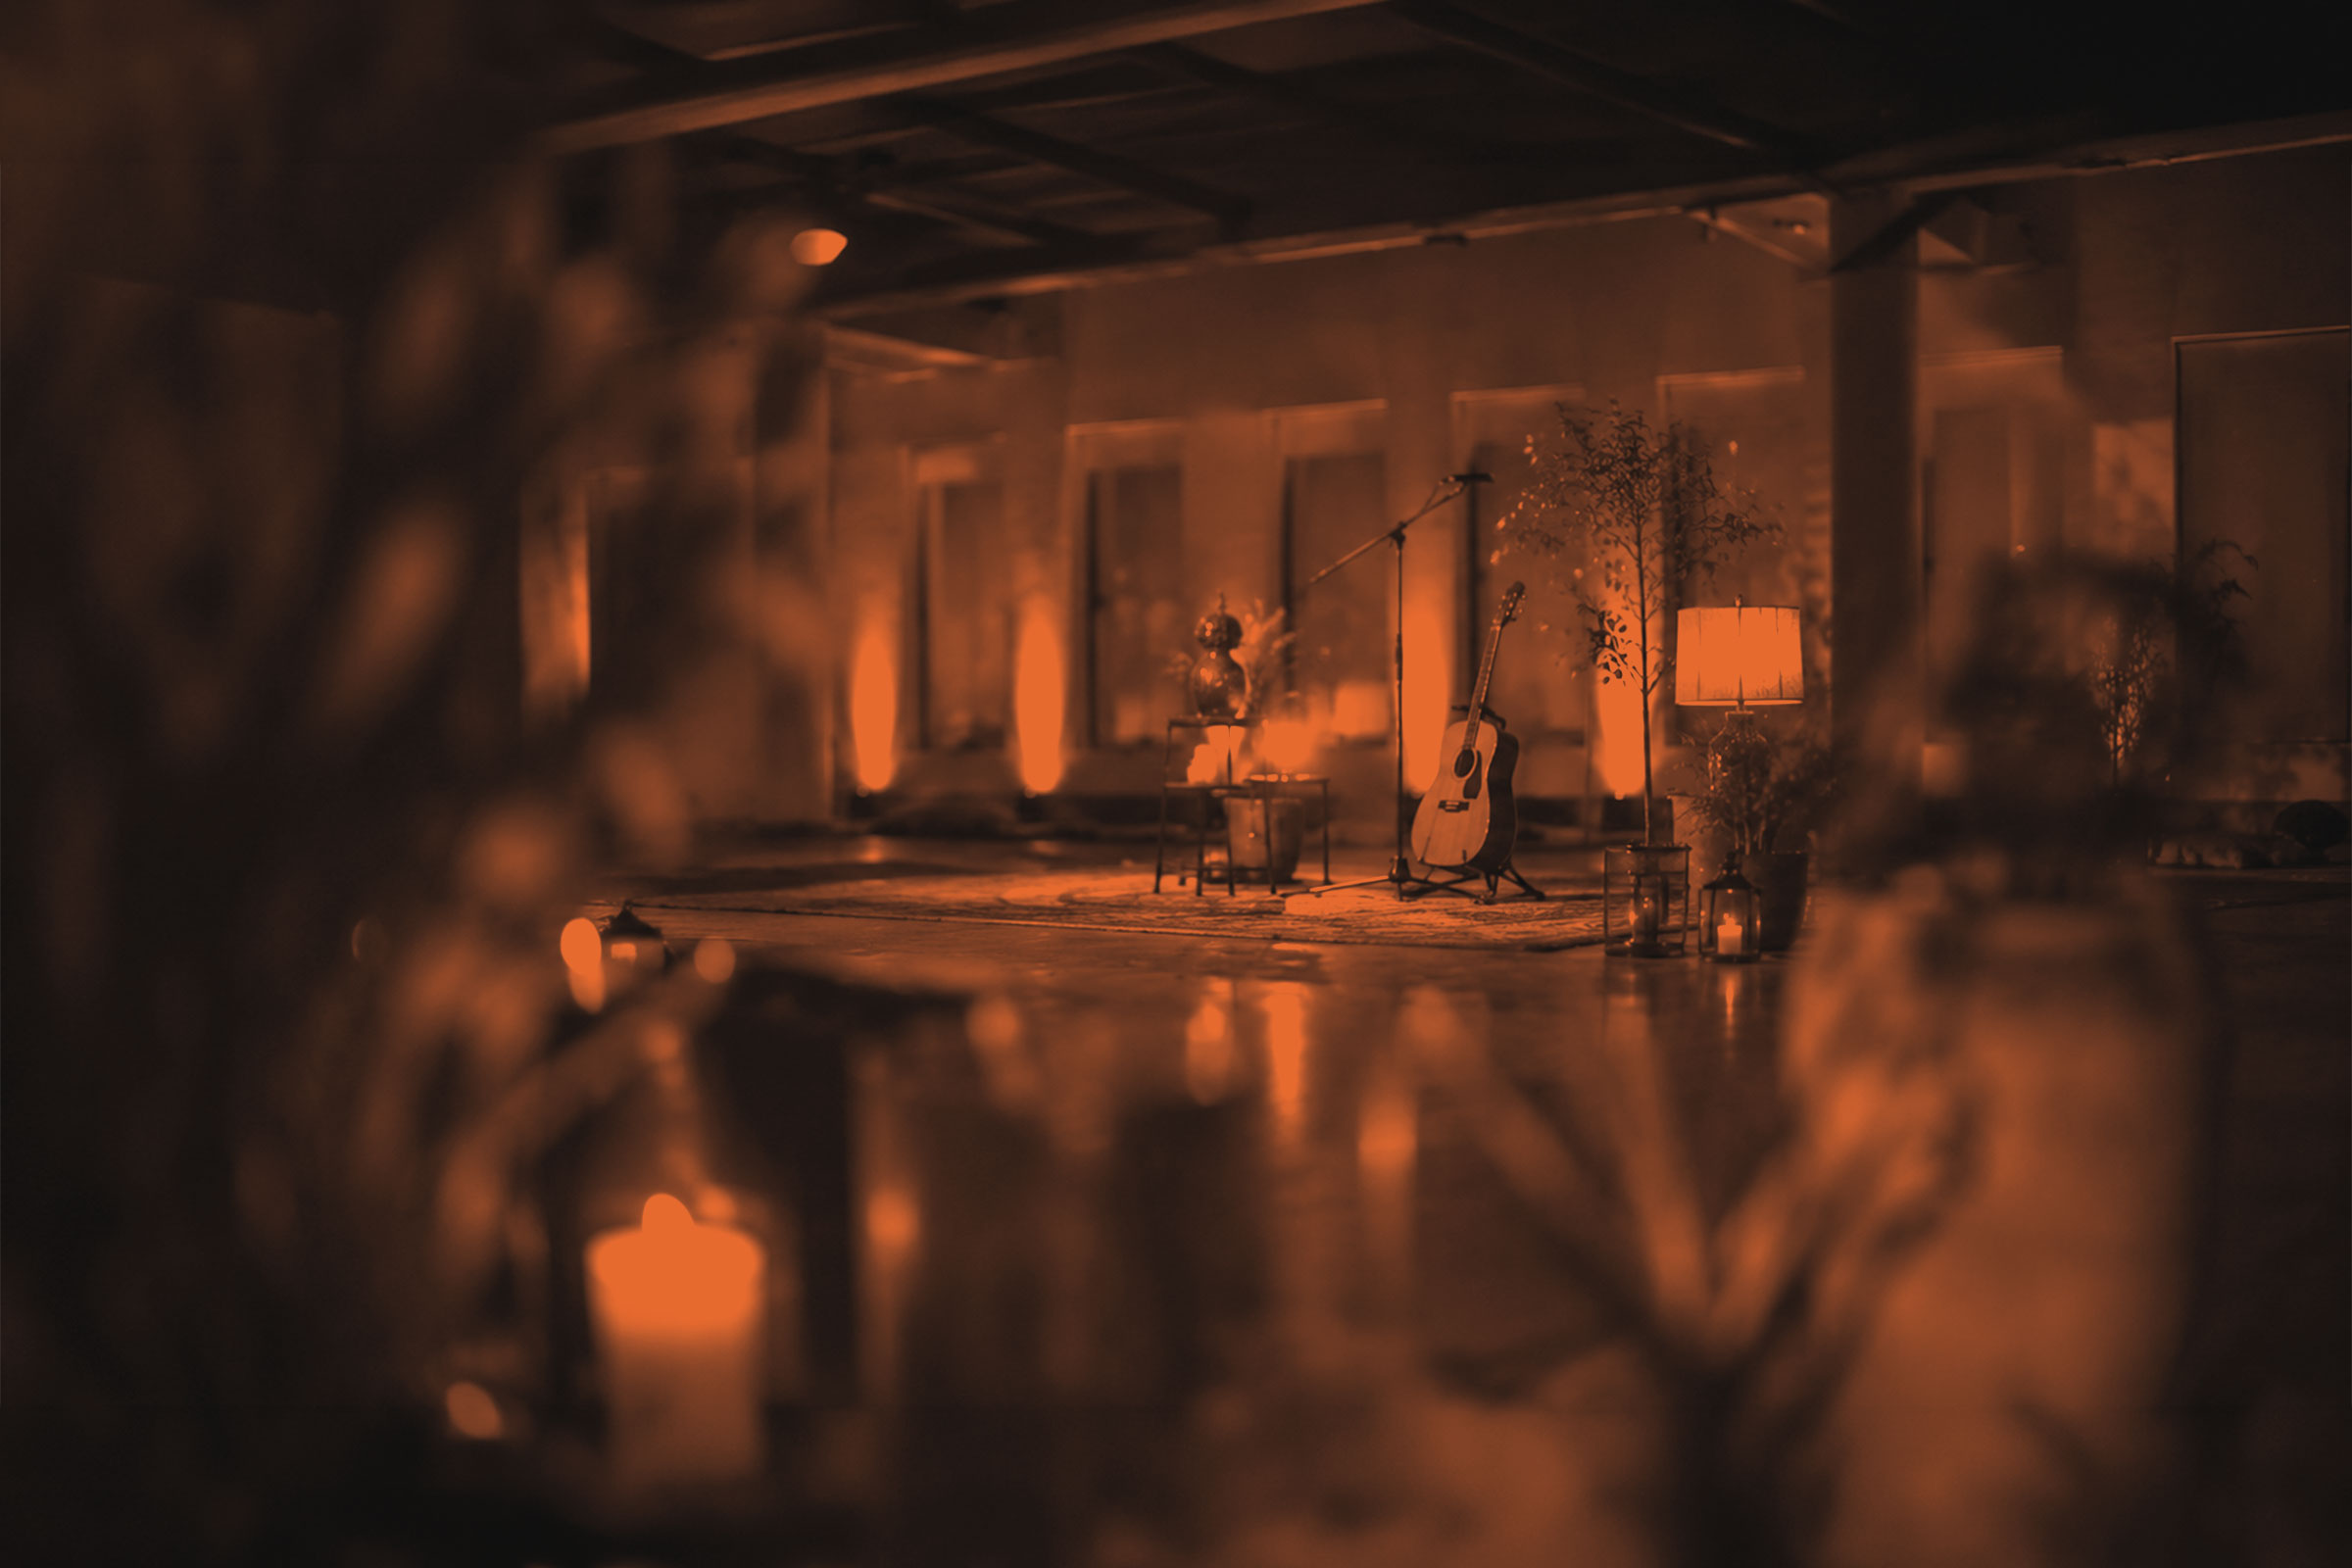
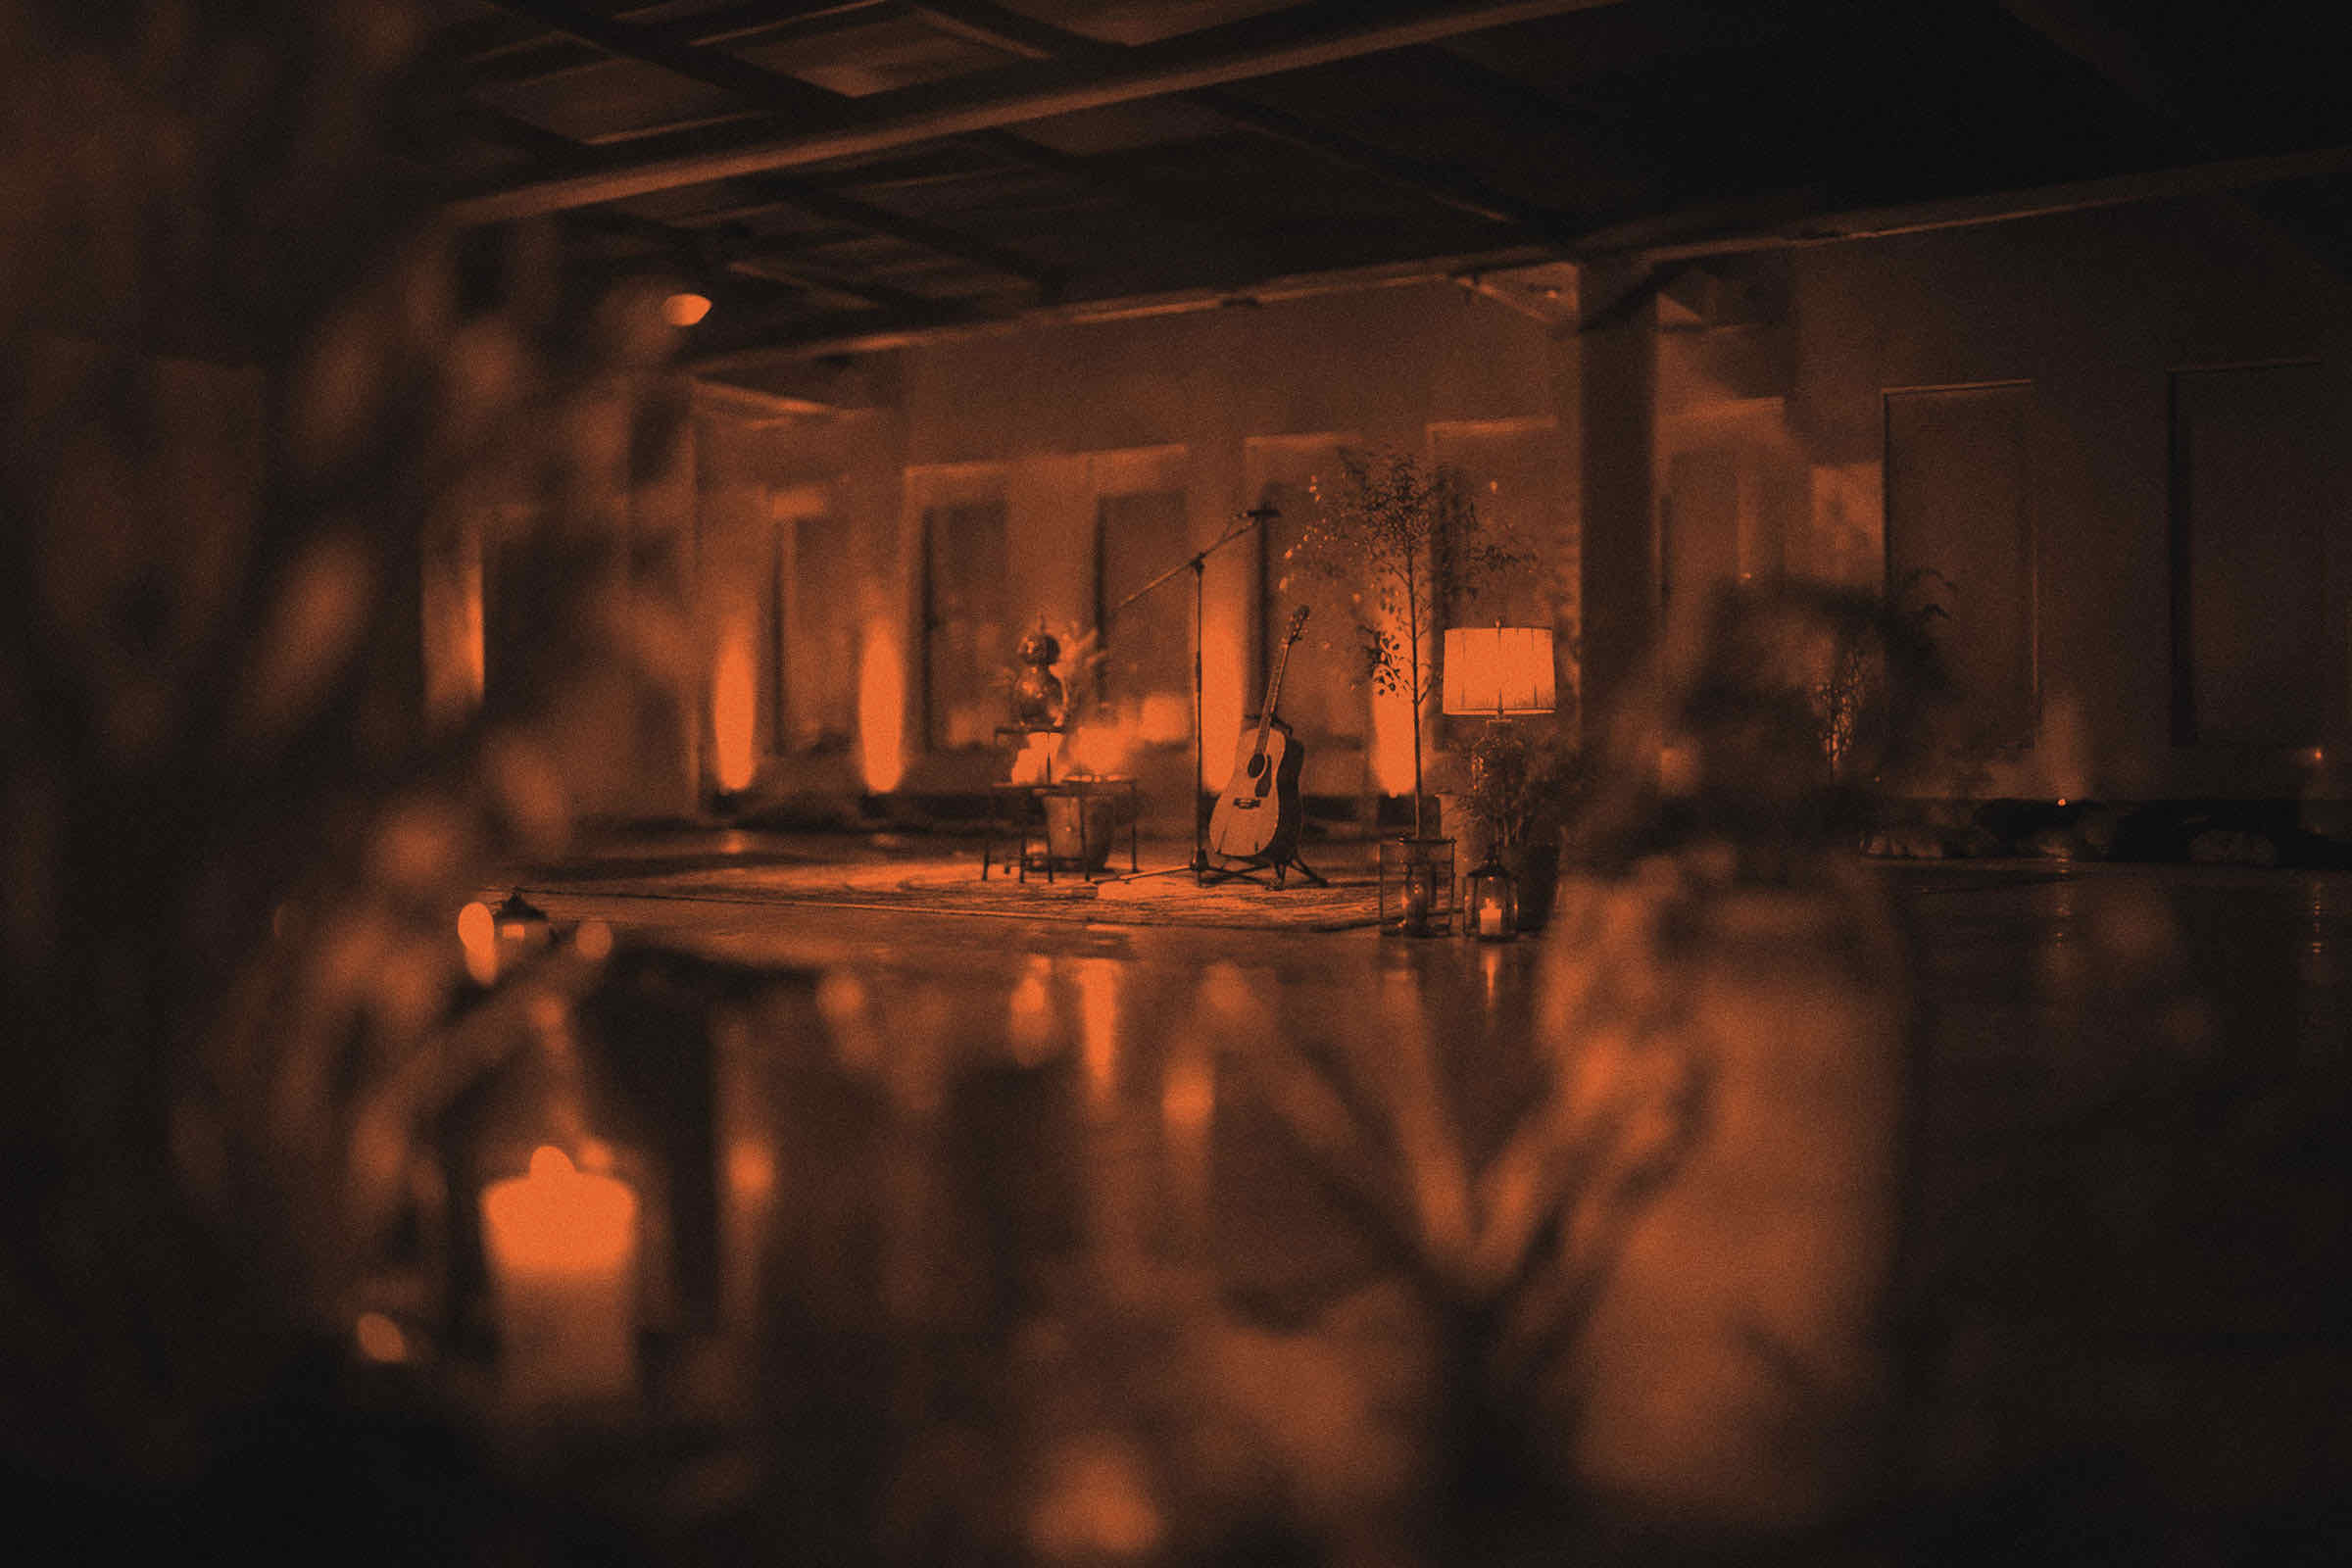
Polish landing: solid CTA button, mobile topbar fix, new testimonials, floating CTA, image optimization
- Hero: darker photo grading, white datetime text, solid orange CTA button
- Mobile: topbar brand/CTA no longer wrap awkwardly
- "Quién abre esta sesión": removed premature Spotify link
- Testimonios: rewritten to avoid church-hopping references and "consumismo" framing
- Footer: removed redundant social links (already in "Síguenos" section)
- Added floating "Comprar entrada" button, appears after scrolling past hero
- CTA final section: added crowd worship photo as background
- Compressed all JPEGs (~65% smaller, no visible quality loss)
- wrangler.jsonc: custom domain routes for ecosdelacasa.cl (connected earlier, now committed)

diff --git a/css/style.css b/css/style.css
@@ -66,6 +66,8 @@ a { color: inherit; }
 }
 .btn--dark { background: #000; color: #fff; }
 .btn--dark:hover { background: #fff; color: #000; }
+.btn--vivid { background: var(--vivid); color: #fff; }
+.btn--vivid:hover { background: var(--vivid-dark); }
 .btn--outline {
   margin-top: 48px;
   font-weight: 500;
@@ -221,7 +223,7 @@ a { color: inherit; }
   font-weight: 500;
   font-size: 13px;
   letter-spacing: 0.05em;
-  color: #000;
+  color: #fff;
   text-transform: uppercase;
   text-align: right;
 }
@@ -513,7 +515,13 @@ a { color: inherit; }
 .cta__bg {
   position: absolute;
   inset: -80px;
-  background: radial-gradient(ellipse 50% 65% at 30% 35%, rgba(0, 0, 0, 0.88), transparent 58%), var(--vivid);
+  background-image:
+    radial-gradient(ellipse 50% 65% at 30% 35%, rgba(0, 0, 0, 0.88), transparent 58%),
+    url('../assets/foto-footer.jpg');
+  background-size: auto, cover;
+  background-position: center, center;
+  background-repeat: no-repeat, no-repeat;
+  background-color: var(--vivid);
   will-change: transform;
 }
 
@@ -601,21 +609,53 @@ a { color: inherit; }
   color: rgba(255, 255, 255, 0.45);
 }
 
-.footer__links {
+/* ===== Floating CTA ===== */
+.floating-cta {
+  position: fixed;
+  bottom: 24px;
+  right: 24px;
+  z-index: 50;
+  background: var(--vivid);
+  color: #fff;
   font-family: var(--font-display);
-  font-size: 14px;
-  letter-spacing: 0.03em;
+  font-weight: 600;
+  font-size: 13px;
+  letter-spacing: 0.05em;
   text-transform: uppercase;
-  line-height: 2.2;
-  display: flex;
-  flex-direction: column;
+  text-decoration: none;
+  padding: 16px 26px;
+  border-radius: 999px;
+  box-shadow: 0 8px 24px rgba(0, 0, 0, 0.35);
+  opacity: 0;
+  transform: translateY(12px);
+  pointer-events: none;
+  transition: opacity 0.3s ease, transform 0.3s ease, background 0.25s ease;
 }
+.floating-cta.is-visible {
+  opacity: 1;
+  transform: translateY(0);
+  pointer-events: auto;
+}
+.floating-cta:hover { background: var(--vivid-dark); }
 
-.footer__links a {
-  color: var(--vivid);
-  text-decoration: underline;
-  text-underline-offset: 3px;
-  transition: color 0.2s;
-  width: fit-content;
+/* ===== Mobile ===== */
+@media (max-width: 600px) {
+  .hero__topbar {
+    flex-direction: column;
+    align-items: flex-start;
+    gap: 8px;
+  }
+  .hero__topbar .link-underline {
+    align-self: flex-end;
+  }
+  .hero__brand span {
+    display: block;
+    margin-top: 2px;
+  }
+  .floating-cta {
+    bottom: 16px;
+    right: 16px;
+    padding: 13px 20px;
+    font-size: 12px;
+  }
 }
-.footer__links a:hover { color: #fff; }

diff --git a/index.html b/index.html
@@ -29,7 +29,7 @@
       <h1 class="hero__title">Ecos<br>de la Casa</h1>
 
       <div class="hero__footer">
-        <a class="btn btn--dark" href="https://www.passline.com/eventos/ecos-de-la-casa-alex-caniulef" target="_blank" rel="noopener">Compra tu entrada</a>
+        <a class="btn btn--vivid" href="https://www.passline.com/eventos/ecos-de-la-casa-alex-caniulef" target="_blank" rel="noopener">Compra tu entrada</a>
         <div class="hero__datetime">Sáb 29 Ago · 18:30 hrs<br>Auditorio SOFOFA, Las Condes</div>
       </div>
     </div>
@@ -78,7 +78,6 @@
         <div class="eyebrow eyebrow--vivid">Sesión 01</div>
         <h2 class="section-title section-title--sm">Quién abre<br>esta sesión</h2>
         <p class="artist-bio">Alex Caniulef es un artista cristiano chileno que busca transmitir mensajes de fe, esperanza y amor a través de canciones honestas y cercanas. Detrás de canciones como Imperfecto, Yo A Ti Te Amo y Dios No Está En Mi Contra, Alex abre la primera sesión de Ecos de la Casa, poniendo la primera piedra de este espacio que seguirá sumando nuevas voces con cada encuentro.</p>
-        <a class="link-vivid" href="https://open.spotify.com/intl-es/artist/5ZXn7vFAzmZ1ANS4mYHydl?si=EZutUpRTTTGnhy1St7zfTw" target="_blank" rel="noopener">Escucha la Sesión 01 en Spotify</a>
       </div>
       <div class="artist-visual">
         <img class="artist-visual__photo" src="assets/foto-alex-vertical.jpg" alt="Alex Caniulef">
@@ -154,21 +153,21 @@
     <div class="eyebrow eyebrow--vivid">Voces</div>
     <div class="testimonial-grid">
       <blockquote class="testimonial">
-        <p class="testimonial__quote">"Vengo de una iglesia distinta y me emociona que no vamos a sentir esa distancia entre el que canta y el que escucha."</p>
+        <p class="testimonial__quote">"Se nota que esto no es un show — es un grupo de gente cantando junta. Eso es lo que más espero de la Sesión 01."</p>
         <footer>
           <div class="testimonial__name">Javier M.</div>
           <div class="testimonial__context">Santiago</div>
         </footer>
       </blockquote>
       <blockquote class="testimonial">
-        <p class="testimonial__quote">"Voy a llevar a toda mi familia. Que mis hijos sientan que son parte, no solo público."</p>
+        <p class="testimonial__quote">"Un espacio íntimo donde se siente lo que se está viviendo, no solo se mira desde lejos."</p>
         <footer>
           <div class="testimonial__name">Carla R.</div>
           <div class="testimonial__context">Viña del Mar</div>
         </footer>
       </blockquote>
       <blockquote class="testimonial">
-        <p class="testimonial__quote">"Espero que sea un espacio donde realmente adoremos, no donde consumamos."</p>
+        <p class="testimonial__quote">"Ecos de la Casa nace del deseo de crear un espacio genuino, donde la adoración se vive junto a otros, no solo se escucha."</p>
         <footer>
           <div class="testimonial__name">Israel Oñate</div>
           <div class="testimonial__context">Músico</div>
@@ -300,12 +299,9 @@
       <div class="footer__line">© 2026 Ecos de la Casa</div>
       <div class="footer__line">Proyecto de adoración latinoamericana</div>
     </div>
-    <div class="footer__links">
-      <a href="https://www.instagram.com/ecosdelacasa/" target="_blank" rel="noopener">Instagram</a>
-      <a href="https://open.spotify.com/intl-es/artist/5ZXn7vFAzmZ1ANS4mYHydl?si=EZutUpRTTTGnhy1St7zfTw" target="_blank" rel="noopener">Spotify</a>
-      <a href="https://www.youtube.com/@AlexCaniulef" target="_blank" rel="noopener">YouTube</a>
-    </div>
   </footer>
+
+  <a class="floating-cta" id="floatingCta" href="https://www.passline.com/eventos/ecos-de-la-casa-alex-caniulef" target="_blank" rel="noopener">Comprar entrada</a>
 
   <script src="js/script.js"></script>
 </body>

diff --git a/js/script.js b/js/script.js
@@ -73,3 +73,17 @@ const ticketsLabel = document.getElementById('ticketsLabel');
 
 if (ticketsFill) ticketsFill.style.width = `${pct}%`;
 if (ticketsLabel) ticketsLabel.textContent = `Entradas disponibles: ${ticketsLeft}/${ticketsTotal}`;
+
+// ===== Botón flotante "Comprar entrada" =====
+const floatingCta = document.getElementById('floatingCta');
+const heroSection = document.getElementById('hero');
+
+if (floatingCta && heroSection && 'IntersectionObserver' in window) {
+  const ctaObserver = new IntersectionObserver((entries) => {
+    entries.forEach((entry) => {
+      floatingCta.classList.toggle('is-visible', !entry.isIntersecting);
+    });
+  }, { threshold: 0 });
+
+  ctaObserver.observe(heroSection);
+}